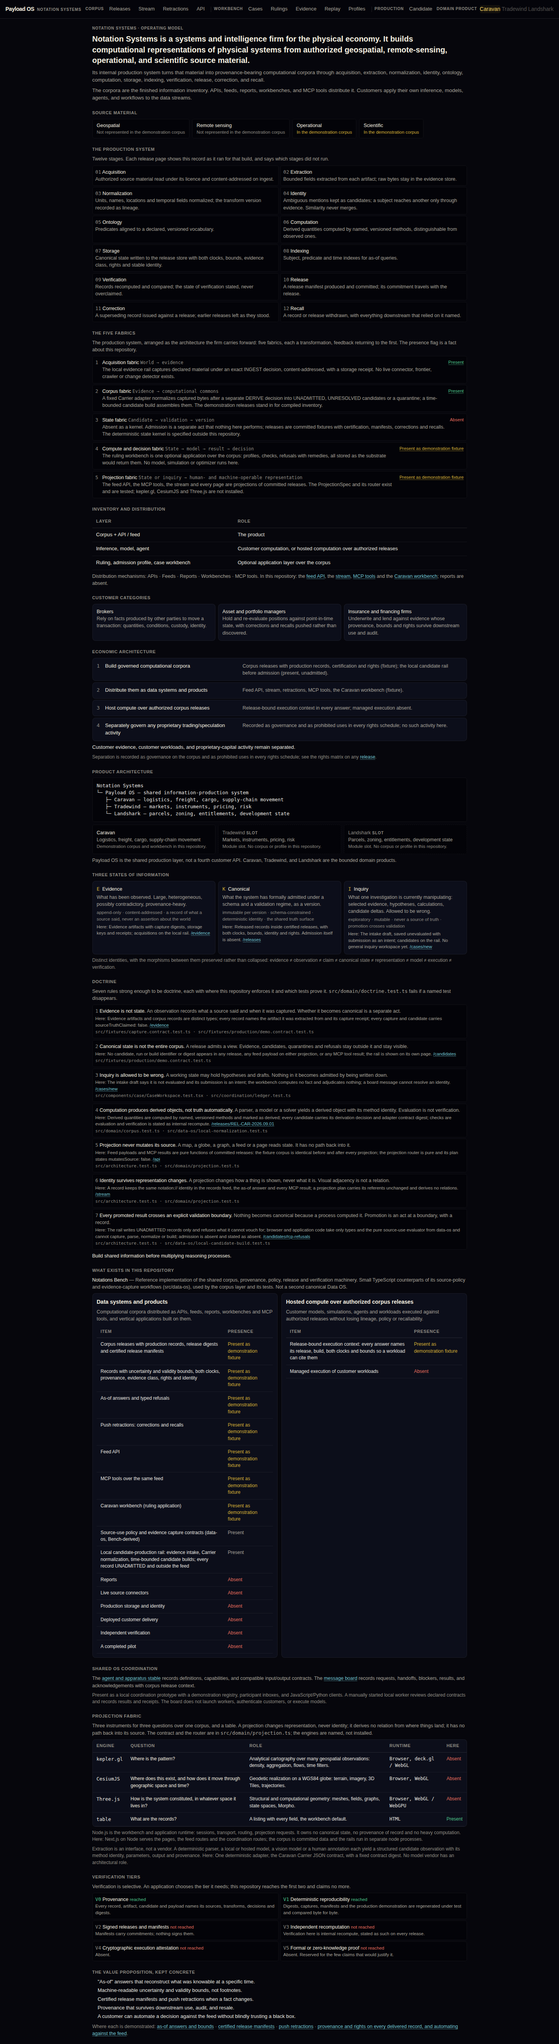
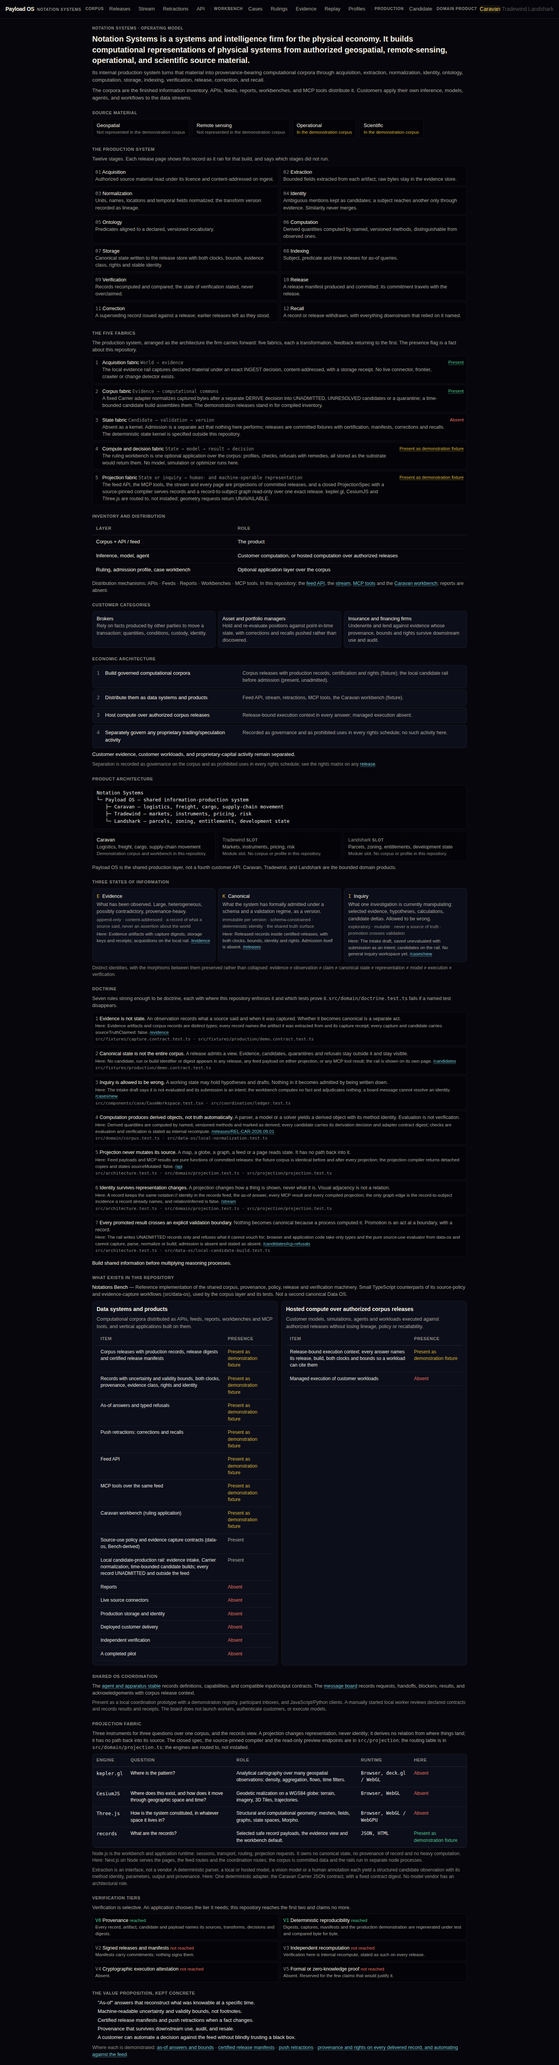
One projection router: the routing table as data over Codex's implemented contract
Codex's projection fabric (payload.projection-spec.v1, a source-pinned
compiler, read-only preview endpoints) is the implemented contract, so the
parallel spec and router from the previous cycle are retired.
src/domain/projection.ts now records the instruments' questions and roles
and the routing table that docs/PROJECTION_FABRIC.md states; its test
checks the table against routeProjection for every combination of mode,
coordinate semantics and representation, and checks that the compiler
returns what the table says, keeps identity and states its non-claims.

docs/ARCHITECTURE.md is reduced to the doctrine binding (where each rule is
enforced and which tests prove it, the tiers reached, the identity chain)
and defers to docs/SYNTHESIZED_ARCHITECTURE.md for the prose. Doctrine,
the product page and the docs name the records projection as the one that
exists, over fixtures.

Claude-Session: https://claude.ai/code/session_01YavvFTG3jpkFTZgGR3Zgq9

diff --git a/src/domain/projection.ts b/src/domain/projection.ts
@@ -1,87 +1,56 @@
 /**
- * The projection fabric as a contract. A projection turns a selection of
- * corpus, canonical or inquiry state into something a person or program can
- * look at; it never changes what it looks at, never invents a relation from
- * where things land on a screen, and never changes what a thing is.
- *
- * Three engines are named for three different jobs (kepler.gl for patterns
- * across many geospatial observations, CesiumJS for geodetic realization,
- * Three.js for structural or computational geometry) and a fourth, the
- * table, for listings. None of the three engines is installed here; the
- * router decides deterministically which one a spec would go to, so the
- * decision table exists and is tested before any engine does.
+ * The projection fabric's engines and routing table as data, over the
+ * implemented contract in src/projection (payload.projection-spec.v1: a
+ * closed spec, a source-pinned compiler, read-only endpoints). There is one
+ * router, src/projection/spec.ts; this module names the instruments'
+ * questions and roles and records the routing table that
+ * docs/PROJECTION_FABRIC.md states, and projection.test.ts asserts the table
+ * agrees with the router for every combination. Nothing here renders.
  */
-import type { CanonicalURI } from './types';
+import { routeProjection, type ProjectionView } from '@/projection/spec';
 
-export const COORDINATE_SEMANTICS = ['GEODETIC', 'INTRINSIC_PHYSICAL', 'FEATURE_SPACE', 'GRAPH_LAYOUT', 'MODEL_SPACE', 'NONE'] as const;
-export type CoordinateSemantics = (typeof COORDINATE_SEMANTICS)[number];
+export type { ProjectionSpec, ProjectionView } from '@/projection/spec';
+export { routeProjection };
 
-export const REPRESENTATIONS = ['POINT', 'LINE', 'POLYGON', 'MESH', 'VOLUME', 'TRAJECTORY', 'GRAPH', 'FIELD', 'TABLE'] as const;
-export type Representation = (typeof REPRESENTATIONS)[number];
+export const PROJECTION_MODES = ['EVIDENCE', 'MAP', 'GLOBE', 'STRUCTURE'] as const satisfies readonly ProjectionView['mode'][];
+export const COORDINATE_SEMANTICS = ['NONE', 'GEODETIC', 'GRAPH_LAYOUT', 'INTRINSIC_PHYSICAL', 'FEATURE_SPACE', 'ARBITRARY_MODEL_SPACE'] as const satisfies readonly ProjectionView['coordinateSemantics'][];
+export const REPRESENTATIONS = ['RECORDS', 'POINT', 'DENSITY', 'GLOBAL_3D', 'GRAPH', 'MESH', 'FIELD'] as const satisfies readonly ProjectionView['representation'][];
 
-/** What the viewer is asking of the projection; it selects the instrument together with the coordinate semantics. */
-export const PROJECTION_INTENTS = ['PATTERN', 'REALIZATION', 'STRUCTURE', 'LISTING'] as const;
-export type ProjectionIntent = (typeof PROJECTION_INTENTS)[number];
-
-export const PROJECTION_ENGINES = ['kepler.gl', 'CesiumJS', 'Three.js', 'table'] as const;
+export const PROJECTION_ENGINES = ['kepler.gl', 'CesiumJS', 'Three.js', 'records'] as const;
 export type ProjectionEngine = (typeof PROJECTION_ENGINES)[number];
-
-export type ProjectionSource =
-  | { kind: 'CORPUS_RELEASE'; releaseId: string }
-  | { kind: 'CANONICAL_VERSION'; versionId: string }
-  | { kind: 'INQUIRY_STATE'; inquiryId: string };
-
-export interface ProjectionSpec {
-  source: ProjectionSource;
-  selection: {
-    entities: readonly CanonicalURI[];
-    relations?: readonly string[];
-    temporalWindow?: { from: string; to: string };
-  };
-  coordinateSemantics: CoordinateSemantics;
-  representation: Representation;
-  intent: ProjectionIntent;
-  /** Enough to reproduce the projection: what was projected, by which compiler, through which transform. */
-  provenance: { sourceVersion: string; compilerVersion: string; transformId: string };
-}
-
-export interface ProjectionPlan {
-  engine: ProjectionEngine;
-  reasons: string[];
-  /** The referents pass through unchanged. A projection changes representation, not identity. */
-  referents: readonly CanonicalURI[];
-  /** Proximity, layout and similarity on the instrument are never relations. */
-  derivesRelations: false;
-  /** The plan reads its source; it has no path back into it. */
-  mutatesSource: false;
-  provenance: ProjectionSpec['provenance'];
-}
 
 export const ENGINE_ROLE: Record<ProjectionEngine, { question: string; role: string; runtime: string }> = {
   'kepler.gl': { question: 'Where is the pattern?', role: 'Analytical cartography over many geospatial observations: density, aggregation, flows, time filters.', runtime: 'Browser, deck.gl / WebGL' },
   CesiumJS: { question: 'Where does this exist, and how does it move through geographic space and time?', role: 'Geodetic realization on a WGS84 globe: terrain, imagery, 3D Tiles, trajectories.', runtime: 'Browser, WebGL' },
   'Three.js': { question: 'How is the system constituted, in whatever space it lives in?', role: 'Structural and computational geometry: meshes, fields, graphs, state spaces, Morpho.', runtime: 'Browser, WebGL / WebGPU' },
-  table: { question: 'What are the records?', role: 'A listing with every field, the workbench default.', runtime: 'HTML' },
+  records: { question: 'What are the records?', role: 'Selected safe record payloads, the evidence view and the workbench default.', runtime: 'JSON, HTML' },
 };
 
-/** The decision table. Pure: the same spec always routes the same way. */
-export function routeProjection(spec: ProjectionSpec): ProjectionPlan {
-  const reasons: string[] = [];
-  let engine: ProjectionEngine;
-  const geodetic = spec.coordinateSemantics === 'GEODETIC';
-  const flat = spec.representation === 'POINT' || spec.representation === 'LINE' || spec.representation === 'POLYGON';
-  if (spec.representation === 'TABLE' || spec.intent === 'LISTING' || spec.coordinateSemantics === 'NONE') {
-    engine = 'table';
-    reasons.push(spec.representation === 'TABLE' ? 'representation is TABLE' : spec.intent === 'LISTING' ? 'intent is LISTING' : 'no coordinate semantics');
-  } else if (geodetic && spec.intent === 'PATTERN' && flat) {
-    engine = 'kepler.gl';
-    reasons.push('GEODETIC coordinates', `intent PATTERN over ${spec.representation}`);
-  } else if (geodetic) {
-    engine = 'CesiumJS';
-    reasons.push('GEODETIC coordinates', spec.intent === 'PATTERN' ? `${spec.representation} needs the globe, not the analytic map` : `intent ${spec.intent} on the globe`);
-  } else {
-    engine = 'Three.js';
-    reasons.push(`${spec.coordinateSemantics} coordinates are not geographic`, `intent ${spec.intent}`);
-  }
-  return { engine, reasons, referents: spec.selection.entities, derivesRelations: false, mutatesSource: false, provenance: spec.provenance };
+export interface ProjectionRoute extends ProjectionView {
+  engine: ProjectionEngine;
+  /** What the fixture compiler returns today for this route. */
+  currentResult: 'READY' | 'UNAVAILABLE';
+  note: string;
+}
+
+/** The routing table of docs/PROJECTION_FABRIC.md. Every other combination is rejected by the router. */
+export const PROJECTION_ROUTING: readonly ProjectionRoute[] = [
+  { mode: 'EVIDENCE', coordinateSemantics: 'NONE', representation: 'RECORDS', engine: 'records', currentResult: 'READY', note: 'Selected safe record payloads with status at the knowledge instant.' },
+  { mode: 'STRUCTURE', coordinateSemantics: 'GRAPH_LAYOUT', representation: 'GRAPH', engine: 'Three.js', currentResult: 'READY', note: 'Records plus a record-to-subject incidence graph; no layout, no inferred edge.' },
+  { mode: 'MAP', coordinateSemantics: 'GEODETIC', representation: 'POINT', engine: 'kepler.gl', currentResult: 'UNAVAILABLE', note: 'No fixture geometry; nothing is invented.' },
+  { mode: 'MAP', coordinateSemantics: 'GEODETIC', representation: 'DENSITY', engine: 'kepler.gl', currentResult: 'UNAVAILABLE', note: 'No fixture geometry; nothing is invented.' },
+  { mode: 'GLOBE', coordinateSemantics: 'GEODETIC', representation: 'GLOBAL_3D', engine: 'CesiumJS', currentResult: 'UNAVAILABLE', note: 'No fixture geometry; nothing is invented.' },
+  { mode: 'STRUCTURE', coordinateSemantics: 'INTRINSIC_PHYSICAL', representation: 'MESH', engine: 'Three.js', currentResult: 'UNAVAILABLE', note: 'No fixture geometry.' },
+  { mode: 'STRUCTURE', coordinateSemantics: 'INTRINSIC_PHYSICAL', representation: 'FIELD', engine: 'Three.js', currentResult: 'UNAVAILABLE', note: 'No fixture geometry.' },
+  { mode: 'STRUCTURE', coordinateSemantics: 'FEATURE_SPACE', representation: 'MESH', engine: 'Three.js', currentResult: 'UNAVAILABLE', note: 'No fixture geometry.' },
+  { mode: 'STRUCTURE', coordinateSemantics: 'FEATURE_SPACE', representation: 'FIELD', engine: 'Three.js', currentResult: 'UNAVAILABLE', note: 'No fixture geometry.' },
+  { mode: 'STRUCTURE', coordinateSemantics: 'ARBITRARY_MODEL_SPACE', representation: 'MESH', engine: 'Three.js', currentResult: 'UNAVAILABLE', note: 'No fixture geometry.' },
+  { mode: 'STRUCTURE', coordinateSemantics: 'ARBITRARY_MODEL_SPACE', representation: 'FIELD', engine: 'Three.js', currentResult: 'UNAVAILABLE', note: 'No fixture geometry.' },
+];
+
+/** What every compiled projection states it did not do. */
+export const PROJECTION_NONCLAIMS = ['sourceMutated', 'canonicalAdmission', 'relationInferred', 'sourceTruthClaimed', 'independentlyVerified', 'rendererExecuted'] as const;
+
+export function routeFor(view: ProjectionView): ProjectionRoute | undefined {
+  return PROJECTION_ROUTING.find((r) => r.mode === view.mode && r.coordinateSemantics === view.coordinateSemantics && r.representation === view.representation);
 }

diff --git a/src/domain/doctrine.ts b/src/domain/doctrine.ts
@@ -24,7 +24,7 @@ export const FABRICS: readonly Fabric[] = [
   { id: 'corpus', order: 2, title: 'Corpus fabric', transforms: 'Evidence → computational commons', inThisRepository: 'A fixed Carrier adapter normalizes captured bytes after a separate DERIVE decision into UNADMITTED, UNRESOLVED candidates or a quarantine; a time-bounded candidate build assembles them. The demonstration releases stand in for compiled inventory.', presence: 'PRESENT', where: '/candidates' },
   { id: 'state', order: 3, title: 'State fabric', transforms: 'Candidate → validation → version', inThisRepository: 'Absent as a kernel. Admission is a separate act that nothing here performs; releases are committed fixtures with certification, manifests, corrections and recalls. The deterministic state kernel is specified outside this repository.', presence: 'ABSENT' },
   { id: 'compute', order: 4, title: 'Compute and decision fabric', transforms: 'State → model → result → decision', inThisRepository: 'The ruling workbench is one optional application over the corpus: profiles, checks, refusals with remedies, all stored as the substrate would return them. No model, simulation or optimizer runs here.', presence: 'FIXTURE', where: '/cases' },
-  { id: 'projection', order: 5, title: 'Projection fabric', transforms: 'State or inquiry → human- and machine-operable representation', inThisRepository: 'The feed API, the MCP tools, the stream and every page are projections of committed releases. The ProjectionSpec and its router exist and are tested; kepler.gl, CesiumJS and Three.js are not installed.', presence: 'FIXTURE', where: '/api' },
+  { id: 'projection', order: 5, title: 'Projection fabric', transforms: 'State or inquiry → human- and machine-operable representation', inThisRepository: 'The feed API, the MCP tools, the stream and every page are projections of committed releases, and a closed ProjectionSpec with a source-pinned compiler serves records and a record-to-subject graph read-only over one exact release. kepler.gl, CesiumJS and Three.js are routed to, not installed; geometry requests return UNAVAILABLE.', presence: 'FIXTURE', where: '/api' },
 ];
 
 export interface InformationState {
@@ -58,8 +58,8 @@ export const DOCTRINE: readonly DoctrineRule[] = [
   { n: 2, rule: 'Canonical state is not the entire corpus.', meaning: 'A release admits a view. Evidence, candidates, quarantines and refusals stay outside it and stay visible.', enforcedHere: 'No candidate, run or build identifier or digest appears in any release, any feed payload on either projection, or any MCP tool result; the rail is shown on its own page.', where: '/candidates', tests: ['src/fixtures/production/demo.contract.test.ts'] },
   { n: 3, rule: 'Inquiry is allowed to be wrong.', meaning: 'A working state may hold hypotheses and drafts. Nothing in it becomes admitted by being written down.', enforcedHere: 'The intake draft says it is not evaluated and its submission is an intent; the workbench computes no fact and adjudicates nothing; a board message cannot resolve an identity.', where: '/cases/new', tests: ['src/components/case/CaseWorkspace.test.tsx', 'src/coordination/ledger.test.ts'] },
   { n: 4, rule: 'Computation produces derived objects, not truth automatically.', meaning: 'A parser, a model or a solver yields a derived object with its method identity. Evaluation is not verification.', enforcedHere: 'Derived quantities are computed by named, versioned methods and marked as derived; every candidate carries its derivation decision and adapter contract digest; checks are evaluation and verification is stated as internal recompute.', where: '/releases/REL-CAR-2026.09.01', tests: ['src/domain/corpus.test.ts', 'src/data-os/local-normalization.test.ts'] },
-  { n: 5, rule: 'Projection never mutates its source.', meaning: 'A map, a globe, a graph, a feed or a page reads state. It has no path back into it.', enforcedHere: 'Feed payloads and MCP results are pure functions of committed releases: the fixture corpus is identical before and after every projection; the projection router is pure and its plan states mutatesSource: false.', where: '/api', tests: ['src/architecture.test.ts', 'src/domain/projection.test.ts'] },
-  { n: 6, rule: 'Identity survives representation changes.', meaning: 'A projection changes how a thing is shown, never what it is. Visual adjacency is not a relation.', enforcedHere: 'A record keeps the same notation:// identity in the records feed, the as-of answer and every MCP result; a projection plan carries its referents unchanged and derives no relations.', where: '/stream', tests: ['src/architecture.test.ts', 'src/domain/projection.test.ts'] },
+  { n: 5, rule: 'Projection never mutates its source.', meaning: 'A map, a globe, a graph, a feed or a page reads state. It has no path back into it.', enforcedHere: 'Feed payloads and MCP results are pure functions of committed releases: the fixture corpus is identical before and after every projection; the projection compiler returns detached copies and states sourceMutated: false.', where: '/api', tests: ['src/architecture.test.ts', 'src/domain/projection.test.ts', 'src/projection/projection.test.ts'] },
+  { n: 6, rule: 'Identity survives representation changes.', meaning: 'A projection changes how a thing is shown, never what it is. Visual adjacency is not a relation.', enforcedHere: 'A record keeps the same notation:// identity in the records feed, the as-of answer, every MCP result and every compiled projection; the only graph edge is the record-to-subject incidence a record already names, and relationInferred is false.', where: '/stream', tests: ['src/architecture.test.ts', 'src/domain/projection.test.ts', 'src/projection/projection.test.ts'] },
   { n: 7, rule: 'Every promoted result crosses an explicit validation boundary.', meaning: 'Nothing becomes canonical because a process computed it. Promotion is an act at a boundary, with a record.', enforcedHere: 'The rail writes UNADMITTED records only and refuses what it cannot vouch for; browser and application code take only types and the pure source-use evaluator from data-os and cannot capture, parse, normalize or build; admission is absent and stated as absent.', where: '/candidates#cp-refusals', tests: ['src/architecture.test.ts', 'src/data-os/local-candidate-build.test.ts'] },
 ];
 
@@ -85,7 +85,7 @@ export const EXTRACTION_INTERFACE = {
   inThisRepository: 'One deterministic adapter, the Caravan Carrier JSON contract, with a fixed contract digest. No model vendor has an architectural role.',
 } as const;
 
-export const PROJECTION_ENGINE_PRESENCE: Record<ProjectionEngine, Presence> = { 'kepler.gl': 'ABSENT', CesiumJS: 'ABSENT', 'Three.js': 'ABSENT', table: 'PRESENT' };
+export const PROJECTION_ENGINE_PRESENCE: Record<ProjectionEngine, Presence> = { 'kepler.gl': 'ABSENT', CesiumJS: 'ABSENT', 'Three.js': 'ABSENT', records: 'FIXTURE' };
 
 export const PROJECTION_ENGINES_IN_REPOSITORY = PROJECTION_ENGINES.map((engine) => ({ engine, ...ENGINE_ROLE[engine], presence: PROJECTION_ENGINE_PRESENCE[engine] }));
 

diff --git a/src/domain/projection.test.ts b/src/domain/projection.test.ts
@@ -1,48 +1,36 @@
 import { describe, expect, it } from 'vitest';
-import { COORDINATE_SEMANTICS, PROJECTION_INTENTS, REPRESENTATIONS, routeProjection, type ProjectionSpec } from './projection';
+import { COORDINATE_SEMANTICS, ENGINE_ROLE, PROJECTION_ENGINES, PROJECTION_MODES, PROJECTION_NONCLAIMS, PROJECTION_ROUTING, REPRESENTATIONS, routeFor, routeProjection } from './projection';
+import { ProjectionError } from '@/projection/spec';
+import { compileProjection } from '@/projection/compile';
+import { describeProjectionSource } from '@/projection/source';
+import { recordsPayload } from '@/adapter/feed';
 
-const base: ProjectionSpec = {
-  source: { kind: 'CORPUS_RELEASE', releaseId: 'REL-CAR-2026.09.01' },
-  selection: { entities: ['notation://lot/caravan/LOT-5B-221', 'notation://shipment/caravan/BAL-77812'] },
-  coordinateSemantics: 'GEODETIC',
-  representation: 'POINT',
-  intent: 'PATTERN',
-  provenance: { sourceVersion: 'REL-CAR-2026.09.01', compilerVersion: '0.1.0', transformId: 'projection.demo' },
-};
-
-function deepFreeze<T>(v: T): T { if (v && typeof v === 'object') for (const c of Object.values(v as object)) deepFreeze(c); return Object.freeze(v); }
-
-describe('projection router', () => {
-  it('routes by coordinate semantics and intent: patterns to kepler.gl, geodetic realization to CesiumJS, everything non-geographic to Three.js, listings to the table', () => {
-    expect(routeProjection(base).engine).toBe('kepler.gl');
-    expect(routeProjection({ ...base, representation: 'POLYGON' }).engine).toBe('kepler.gl');
-    expect(routeProjection({ ...base, intent: 'REALIZATION' }).engine).toBe('CesiumJS');
-    expect(routeProjection({ ...base, representation: 'MESH' }).engine).toBe('CesiumJS');
-    expect(routeProjection({ ...base, representation: 'TRAJECTORY', intent: 'REALIZATION' }).engine).toBe('CesiumJS');
-    expect(routeProjection({ ...base, coordinateSemantics: 'INTRINSIC_PHYSICAL', representation: 'MESH', intent: 'STRUCTURE' }).engine).toBe('Three.js');
-    expect(routeProjection({ ...base, coordinateSemantics: 'GRAPH_LAYOUT', representation: 'GRAPH', intent: 'STRUCTURE' }).engine).toBe('Three.js');
-    expect(routeProjection({ ...base, coordinateSemantics: 'MODEL_SPACE', representation: 'FIELD', intent: 'PATTERN' }).engine).toBe('Three.js');
-    expect(routeProjection({ ...base, representation: 'TABLE' }).engine).toBe('table');
-    expect(routeProjection({ ...base, intent: 'LISTING' }).engine).toBe('table');
-    expect(routeProjection({ ...base, coordinateSemantics: 'NONE' }).engine).toBe('table');
-  });
-
-  it('is total and pure: every combination routes somewhere, the same spec routes the same way, and the spec is not touched', () => {
-    for (const coordinateSemantics of COORDINATE_SEMANTICS) for (const representation of REPRESENTATIONS) for (const intent of PROJECTION_INTENTS) {
-      const spec = deepFreeze({ ...base, coordinateSemantics, representation, intent });
-      const a = routeProjection(spec);
-      const b = routeProjection(spec);
-      expect(a).toEqual(b);
-      expect(['kepler.gl', 'CesiumJS', 'Three.js', 'table']).toContain(a.engine);
-      expect(a.reasons.length).toBeGreaterThan(0);
+describe('projection routing table', () => {
+  it('agrees with the one router for every combination: listed routes go to their engine, every other combination is rejected', () => {
+    let listed = 0;
+    for (const mode of PROJECTION_MODES) for (const coordinateSemantics of COORDINATE_SEMANTICS) for (const representation of REPRESENTATIONS) {
+      const view = { mode, coordinateSemantics, representation };
+      const route = routeFor(view);
+      if (route) { listed++; expect(routeProjection(view), JSON.stringify(view)).toBe(route.engine); }
+      else expect(() => routeProjection(view), JSON.stringify(view)).toThrow(ProjectionError);
     }
+    expect(listed).toBe(PROJECTION_ROUTING.length);
+    expect(new Set(PROJECTION_ROUTING.map((r) => r.engine))).toEqual(new Set(PROJECTION_ENGINES));
+    for (const engine of PROJECTION_ENGINES) expect(ENGINE_ROLE[engine].question.length).toBeGreaterThan(10);
   });
 
-  it('changes representation, never identity, and derives no relation from where things land', () => {
-    const plan = routeProjection(deepFreeze({ ...base }));
-    expect(plan.referents).toEqual(base.selection.entities);
-    expect(plan.derivesRelations).toBe(false);
-    expect(plan.mutatesSource).toBe(false);
-    expect(plan.provenance).toEqual(base.provenance);
+  it('the fixture compiler returns what the table says it returns, keeps identity, and states its non-claims', async () => {
+    const descriptor = describeProjectionSource('REL-CAR-2026.09.01');
+    const feed = (await recordsPayload('REL-CAR-2026.09.01', 'COUNTERPARTY_SHARED'))!;
+    const record = feed.records[0];
+    const spec = (view: object) => ({ schema: 'payload.projection-spec.v1', source: descriptor.source, selection: { recordIds: [record.recordId], knownAt: descriptor.knownAt, validAt: record.validity.validFrom }, view, viewer: 'COUNTERPARTY_SHARED' });
+    for (const route of PROJECTION_ROUTING) {
+      const result = compileProjection(spec({ mode: route.mode, coordinateSemantics: route.coordinateSemantics, representation: route.representation }));
+      expect(result.engine, route.note).toBe(route.engine);
+      expect(result.status).toBe(route.currentResult);
+      expect(result.records[0].canonicalId).toBe(record.canonicalId);
+      expect(Object.keys(result.nonclaims).sort()).toEqual([...PROJECTION_NONCLAIMS].sort());
+      for (const key of PROJECTION_NONCLAIMS) expect(result.nonclaims[key]).toBe(false);
+    }
   });
 });

diff --git a/src/domain/doctrine.test.ts b/src/domain/doctrine.test.ts
@@ -30,8 +30,8 @@ describe('doctrine as data', () => {
     expect(VERIFICATION_TIERS.filter((t) => t.reachedHere).map((t) => t.tier)).toEqual(['V0', 'V1']);
   });
 
-  it('installs no projection engine but the table', () => {
-    expect(PROJECTION_ENGINES_IN_REPOSITORY.map((e) => [e.engine, e.presence])).toEqual([['kepler.gl', 'ABSENT'], ['CesiumJS', 'ABSENT'], ['Three.js', 'ABSENT'], ['table', 'PRESENT']]);
+  it('installs no projection engine; only the records projection exists, over fixtures', () => {
+    expect(PROJECTION_ENGINES_IN_REPOSITORY.map((e) => [e.engine, e.presence])).toEqual([['kepler.gl', 'ABSENT'], ['CesiumJS', 'ABSENT'], ['Three.js', 'ABSENT'], ['records', 'FIXTURE']]);
     const pkg = JSON.parse(readFileSync(resolve(process.cwd(), 'package.json'), 'utf8')) as { dependencies: Record<string, string> };
     for (const dep of Object.keys(pkg.dependencies)) expect(dep, `${dep} is a projection engine the doctrine says is absent`).not.toMatch(/kepler|cesium|^three$/);
   });

diff --git a/tests/e2e/smoke.spec.ts b/tests/e2e/smoke.spec.ts
@@ -85,7 +85,7 @@ test('the product page states the firm, the twelve stages, the three customer ca
   await expect(page.locator('[data-doctrine-rule]')).toHaveCount(7);
   await expect(page.getByTestId('operational-rule')).toContainText('shared information');
   await expect(page.locator('[data-engine="kepler.gl"][data-presence="ABSENT"]')).toHaveCount(1);
-  await expect(page.locator('[data-engine="table"][data-presence="PRESENT"]')).toHaveCount(1);
+  await expect(page.locator('[data-engine="records"][data-presence="FIXTURE"]')).toHaveCount(1);
   await expect(page.locator('[data-tier][data-reached="true"]')).toHaveCount(2);
 });
 

diff --git a/docs/ARCHITECTURE.md b/docs/ARCHITECTURE.md
@@ -1,86 +1,42 @@
-# Architecture carried forward
+# Doctrine binding
 
-The founder's synthesis (2026-09-05) of every earlier iteration, as it binds this repository. `src/domain/doctrine.ts` holds the same content as data; `/product` renders it; `src/domain/doctrine.test.ts` and `src/architecture.test.ts` keep it honest. The mandate in [Economic architecture](ECONOMIC_ARCHITECTURE.md) and [Company mandate](COMPANY_MANDATE.md) is unchanged by this document; this is how the machinery is arranged underneath it.
+[Synthesized architecture](SYNTHESIZED_ARCHITECTURE.md) is the prose of record for the five fabrics, the seven doctrine invariants, the projection instruments, the runtime allocation and the historical concept mapping. This document records only what that architecture binds in this repository: where each rule is enforced, which tests prove it, the three states of information as they exist here, the verification tier reached, and the identity chain. `src/domain/doctrine.ts` holds the same content as data; `/product` renders it; `src/domain/doctrine.test.ts` fails if a named test file disappears.
 
-## The system
+## Three states of information, here
 
-```
-Acquire → preserve evidence → compile corpus → establish state → project → compute → investigate → act → observe
-```
-
-with provenance, lineage, quality, policy and replayability around the whole of it, and observation returning to acquisition, never directly into state.
-
-## Five fabrics
-
-| # | Fabric | Transforms | In this repository |
+| State | Meaning | Invariants | In this repository |
 |---|---|---|---|
-| 1 | Acquisition | world → evidence | The local evidence rail: declared policy, exact INGEST decision, content-addressed bytes, receipt. No connector, frontier, crawler or change detector. |
-| 2 | Corpus | evidence → computational commons | Carrier normalization after a separate DERIVE decision; UNADMITTED, UNRESOLVED candidates or a quarantine; time-bounded candidate builds. Demonstration releases stand in for compiled inventory. |
-| 3 | State | candidate → validation → version | Absent as a kernel. Admission is a separate act nothing here performs. The deterministic state kernel is specified outside this repository. |
-| 4 | Compute and decision | state → model → result → decision | The ruling workbench, one optional application over the corpus. No model, simulation or optimizer runs here. |
-| 5 | Projection | state or inquiry → operable representation | The feed API, MCP tools, stream and pages. `ProjectionSpec` and its router exist and are tested; kepler.gl, CesiumJS and Three.js are named, not installed. |
-
-## Three states of information
-
-| State | Meaning | Invariants | Here |
-|---|---|---|---|
-| Evidence, E | what has been observed | append-only, content-addressed, a record of what a source said | evidence artifacts with capture digests and receipts; acquisitions on the rail |
+| Evidence, E | what has been observed | append-only, content-addressed, a record of what a source said | evidence artifacts with capture digests and receipts; acquisitions on the local rail |
 | Canonical, K | what has been admitted under a schema and a validation regime, as a version | immutable per version, schema-constrained, deterministic identity | released records in certified releases; admission absent |
-| Inquiry, I | what one investigation is manipulating; allowed to be wrong | exploratory, mutable, never a source of truth, promotion crosses validation | the intake draft; candidates on the rail; no general inquiry workspace yet |
+| Inquiry, I | what one investigation is manipulating; allowed to be wrong | exploratory, mutable, never a source of truth, promotion crosses validation | the intake draft; candidates on the rail; no general inquiry workspace |
 
-Corpus ≠ canonical state. Corpus ≠ graph. Evidence ≠ assertion. The identity chain is kept distinct, with the morphisms between its members preserved: evidence ≠ observation ≠ claim ≠ canonical state ≠ representation ≠ model ≠ execution ≠ verification.
+The identity chain is kept distinct, with the morphisms between its members preserved: evidence ≠ observation ≠ claim ≠ canonical state ≠ representation ≠ model ≠ execution ≠ verification.
 
-## Doctrine
+## The seven rules, bound
 
-1. Evidence is not state.
-2. Canonical state is not the entire corpus.
-3. Inquiry is allowed to be wrong.
-4. Computation produces derived objects, not truth automatically.
-5. Projection never mutates its source.
-6. Identity survives representation changes.
-7. Every promoted result crosses an explicit validation boundary.
+| # | Rule | Enforced here | Proved by |
+|---|---|---|---|
+| 1 | Evidence is not state. | Evidence artifacts and corpus records are distinct types; every record names its artifact and receipt; every capture and candidate carries `sourceTruthClaimed: false`. | `src/fixtures/capture.contract.test.ts`, `src/fixtures/production/demo.contract.test.ts` |
+| 2 | Canonical state is not the entire corpus. | No candidate, run or build identifier or digest appears in any release, feed payload or MCP result; the rail has its own page. | `src/fixtures/production/demo.contract.test.ts` |
+| 3 | Inquiry is allowed to be wrong. | The intake draft is saved unevaluated with submission as an intent; the workbench adjudicates nothing; a board message resolves no identity. | `src/components/case/CaseWorkspace.test.tsx`, `src/coordination/ledger.test.ts` |
+| 4 | Computation produces derived objects, not truth automatically. | Derived quantities carry named, versioned methods; every candidate carries its derivation decision and adapter digest; checks are evaluation, verification is stated as internal recompute. | `src/domain/corpus.test.ts`, `src/data-os/local-normalization.test.ts` |
+| 5 | Projection never mutates its source. | The fixture corpus is byte-identical before and after every feed payload and MCP tool; the projection compiler returns detached copies and states `sourceMutated: false`. | `src/architecture.test.ts`, `src/domain/projection.test.ts`, `src/projection/projection.test.ts` |
+| 6 | Identity survives representation changes. | One `notation://` identity per record across the records feed, the as-of answer, every MCP result and every compiled projection; the only graph edge is the record-to-subject incidence a record already names. | `src/architecture.test.ts`, `src/domain/projection.test.ts`, `src/projection/projection.test.ts` |
+| 7 | Every promoted result crosses an explicit validation boundary. | The rail writes UNADMITTED records only and refuses what it cannot vouch for; browser and page layers import only types and the pure source-use evaluator from the rails; the rails import nothing from above them; admission is absent and stated so. | `src/architecture.test.ts`, `src/data-os/local-candidate-build.test.ts` |
 
-And one operational rule: build shared information before multiplying reasoning processes.
+Operational rule: build shared information before multiplying reasoning processes.
 
-Each rule's enforcement here and the tests that prove it are listed in `src/domain/doctrine.ts` and on `/product`. Rules 5, 6 and 7 gained direct tests in this cycle (`src/architecture.test.ts`): the fixture corpus is byte-identical before and after every feed payload and every MCP tool; a record's `notation://` identity is the same string in the records feed, the as-of answer and the tool results; browser and page layers import only types and the pure source-use evaluator from `src/data-os`, and the rails import nothing from above them.
+## Projection, here
 
-## Projection fabric
-
-Three instruments answer three different questions over the same corpus; none of them is a data store and none of them derives a relation from where things land.
-
-| Engine | Question | Role |
-|---|---|---|
-| kepler.gl | Where is the pattern? | analytical cartography over many geospatial observations |
-| CesiumJS | Where does this exist, and how does it move through geographic space and time? | geodetic realization on a WGS84 globe |
-| Three.js | How is the system constituted, in whatever space it lives in? | structural and computational geometry, Morpho |
-| table | What are the records? | the workbench listing |
-
-`ProjectionSpec` names the source (a corpus release, a canonical version or an inquiry state), the selection, the coordinate semantics (GEODETIC, INTRINSIC_PHYSICAL, FEATURE_SPACE, GRAPH_LAYOUT, MODEL_SPACE, NONE), the representation, the intent (PATTERN, REALIZATION, STRUCTURE, LISTING) and the provenance needed to reproduce it. `routeProjection` is pure and total: geodetic patterns over points, lines or polygons go to kepler.gl; anything else geodetic goes to CesiumJS; anything not geographic goes to Three.js; listings and tables go to the table. The plan carries the referents unchanged, `derivesRelations: false` and `mutatesSource: false`.
-
-Node.js is the workbench and application runtime, owning sessions, transport and projection requests, never canonical state. Extraction is an interface, not a vendor: no model vendor has an architectural role here.
+There is one router, `routeProjection` in `src/projection/spec.ts`, and one closed spec, `payload.projection-spec.v1`, compiled read-only over one exact fixture release by `src/projection/compile.ts` and served by `GET /api/projections/sources/:releaseId` and `POST /api/projections/preview` ([Projection fabric](PROJECTION_FABRIC.md)). `src/domain/projection.ts` records the instruments' questions and roles and the routing table as data; `src/domain/projection.test.ts` asserts the table agrees with the router for every combination of mode, coordinate semantics and representation, that the compiler returns what the table says, keeps identity and states its non-claims. kepler.gl, CesiumJS and Three.js are routed to, not installed; geometry requests return `UNAVAILABLE` and nothing is invented.
 
 ## Verification tiers
 
 | Tier | Name | Here |
 |---|---|---|
 | V0 | provenance | reached |
-| V1 | deterministic reproducibility | reached: digests, captures, manifests and the production demonstration regenerate under test |
+| V1 | deterministic reproducibility | reached: digests, captures, manifests, the production demonstration and projections regenerate under test |
 | V2 | signed releases and manifests | not reached: commitments exist, nothing signs them |
 | V3 | independent recomputation | not reached: verification is internal recompute, stated as such |
 | V4 | cryptographic execution attestation | not reached |
 | V5 | formal or zero-knowledge proof | not reached, and selective by design |
-
-## What the earlier iterations became
-
-| Earlier concept | Where it lives now |
-|---|---|
-| PayloadOS as the company | the shared production layer, Payload OS, beneath the domain products |
-| DAF, EvidencePool | acquisition fabric, evidence substrate; here the local evidence rail |
-| Archive, Odyssey, Oracle, Librarian | corpus vault, query engine, operator interface: functions kept, labels retired |
-| Computational Commons, InquiryState | corpus fabric and the inquiry state; the intake draft is the first instance here |
-| Deterministic State Architecture | the state fabric's kernel, specified outside this repository |
-| Morpho, STE/SCL/SIL, Model-Complexity, FEP/SCG | compute fabric, representation audit, control plane; none present here |
-| Tradewind, LANDSHARK, Caravan | products over the domain corpora |
-| Kepler, Cesium, Three.js, Node.js | the projection fabric and its runtime |
-| Mistral | no architectural role |
-| blockchain, RWA | not core; an external commitment adapter if a customer case ever justifies it |

diff --git a/docs/ECONOMIC_ARCHITECTURE.md b/docs/ECONOMIC_ARCHITECTURE.md
@@ -101,7 +101,7 @@ The underlying production system is shared. The customer-facing API, feed, repor
 | Normalize acquired evidence into source-scoped, provenance-bearing candidates | `src/data-os/caravan-carrier-adapter.ts`, `local-normalization.ts`; `npm run evidence -- normalize` and `inspect-normalization` | Local implementation: separate INTERNAL DERIVE check; fixed UTF-8 Carrier JSON parser; explicit missingness/time; durable UNRESOLVED, UNADMITTED candidate or quarantine with no candidate; historical reparse and digest recomputation. No source-truth or field-accuracy claim, independent verification, identity merge, corpus build/admission, release or public API exposure |
 | Assemble explicitly selected candidates into a time-bounded build | `src/data-os/local-candidate-build.ts`; `npm run evidence -- build-candidates` and `inspect-candidate-build` | Local implementation: 1–64 selected Carrier normalizations; actual dependency reinspection; definition/source-class and cutoff checks; separate build-time INTERNAL DERIVE; exact membership references and root, create-only manifest and historical recomputation. UNADMITTED, with no canonical state, identity resolution, completeness claim, release or public delivery |
 | Candidate records stay visible and separate from canonical admission, release and the feed | `/candidates` over `src/fixtures/production/demo.json`, produced through the real rails by `pipeline.ts` and reproduced by `demo.contract.test.ts`; `separationTerms` checked against every feed payload and MCP tool result | Demonstration reproduced under the rails; every record UNADMITTED, identity UNRESOLVED; the page reads no local store |
-| The architecture carried forward: five fabrics, three states of information, seven rules of doctrine, verification tiers, the projection triad | `src/domain/doctrine.ts`, `src/domain/projection.ts`, `docs/ARCHITECTURE.md`; `/product`; `src/domain/doctrine.test.ts` keeps every named test present; `src/architecture.test.ts` proves rules 5, 6 and 7 structurally | Stated as data with presence flags; the state kernel and the three projection engines absent, and stated so |
+| The architecture carried forward, bound to this repository: three states of information, the seven rules with their enforcement and tests, verification tiers, the routing table over the one projection router | `src/domain/doctrine.ts`, `src/domain/projection.ts`, `docs/ARCHITECTURE.md` (binding) over `docs/SYNTHESIZED_ARCHITECTURE.md` (prose); `/product`; `src/domain/doctrine.test.ts` keeps every named test present; `src/architecture.test.ts` proves rules 5, 6 and 7 structurally; `src/domain/projection.test.ts` checks the table against `routeProjection` for every combination | Stated as data with presence flags; the state kernel and the three projection engines absent, and stated so |
 | Compare local candidate membership without inventing business meaning | `src/data-os/candidate-build-comparison.ts`; `npm run evidence -- compare-candidate-builds`; [Local candidate comparison](LOCAL_CANDIDATE_COMPARISON.md) | Read-only local implementation: exact full build references and source-byte reinspection; same definition/contract/purpose and ordered input times; source-scoped added/removed/unchanged/reference-changed entries. Deterministic ephemeral report, no new timestamp, field-change inference, correction/retraction decision, current-use grant, canonical mutation or released feed |
 | Project one source without changing its identity or authority | `src/projection/spec.ts`, `source.ts`, `compile.ts`; `GET /api/projections/sources/[releaseId]`, `POST /api/projections/preview` | Read-only fixture implementation: legacy release commitments plus a required full snapshot pin, explicit rights/visibility/time-bound selection, preserved record/subject identities, safe records and RECORD_ABOUT_SUBJECT graph; detached payload and projection digests. No inferred relation, source mutation, canonical admission or independent verification |
 | Distinct spatial and structural instruments over the same corpus | `routeProjection`; `docs/SYNTHESIZED_ARCHITECTURE.md`, `docs/PROJECTION_FABRIC.md` | Configured architectural roles: kepler.gl for analytical geography, CesiumJS for geographic-world realization, Three.js for structural/computational representation. Geometry requests return UNAVAILABLE; renderer dependencies, instances, spatial adapters and new visual workbench modes are not implemented |

diff --git a/docs/UX_ARCHITECTURE.md b/docs/UX_ARCHITECTURE.md
@@ -109,7 +109,7 @@ Every ruling names the corpus release and build it was evaluated against (`Rulin
 - The browser performs presentation validation only: visibility projection, knowledge-time projection, highlight linking from a failed check to its claims, evidence, broken lineage edge and remediation, queue summaries. There is no admission logic, no second gate battery, and no inference of a status from display fields.
 - Every workbench action (request evidence, replace evidence, correct claim, change use, change tolerance, appeal, resubmit, reviewer intervention, submit) produces an `ActionIntent` shown in an "Action intents (not sent)" panel. Nothing is sent; nothing is re-evaluated. There is no bare "Override": reviewer intervention requires an authority, a reason and a basis before it can be recorded, and it is recorded beside the automatic results, not over them.
 - Coordination opens in `FIXTURE` mode with no writes. `npm run dev:coordination` enables the separate `LOCAL_SANDBOX` service on loopback, where registrations, posts and acknowledgements are sent to `/api/coordination` and recorded locally. Every snapshot still carries `fixture_only: true`, and also names its mode, persistence, scope and write capability. Participant selection is simulated identity. Scope checks do not constitute production authentication or tenant isolation.
-- Projection is a contract before it is an engine. `domain/projection.ts` defines `ProjectionSpec` and a pure, total router to kepler.gl, CesiumJS, Three.js or the table by coordinate semantics and intent; a plan carries its referents unchanged and derives no relation. None of the three engines is installed; the feed, the tools, the stream and the pages are the projections that exist, and `src/architecture.test.ts` proves they leave the corpus untouched and identities intact. Full text: [Architecture](ARCHITECTURE.md).
+- Projection is a contract before it is an engine. The one spec and router live in `src/projection` ([Projection fabric](PROJECTION_FABRIC.md)); `domain/projection.ts` records the instruments' questions, roles and the routing table as data, and its test checks the table against the router for every combination and the compiler's non-claims. None of the three engines is installed; the feed, the tools, the stream, the pages and the read-only preview are the projections that exist, and `src/architecture.test.ts` proves they leave the corpus untouched and identities intact. Binding: [Doctrine binding](ARCHITECTURE.md); prose: [Synthesized architecture](SYNTHESIZED_ARCHITECTURE.md).
 - `/candidates` renders the committed demonstration in `src/fixtures/production/demo.json`, which `pipeline.ts` produces through the real local rails (`src/data-os`) from the committed `examples/` at fixed instants and `demo.contract.test.ts` reproduces. Every record there is `UNADMITTED` with `canonicalId: null`; the same test asserts that no candidate, run or build identifier or digest appears in any `/api/v1` payload or MCP tool result. The page reads nothing from `.payload/`.
 - A board post, acknowledgement or matching contract cannot admit evidence, resolve identity, certify a release, launch a worker, run a model or execute a customer workload. Corpus data remains committed fixtures; the local operational event history lives separately in `.payload/coordination/events.json`.
 - Fixture commitments are computed in Node (`scripts/stamp-digests.entry.ts`) and committed. The projection adapter recomputes these existing commitments and hashes its replaceable output in Node; it does not change them. The browser never hashes anything.

diff --git a/README.md b/README.md
@@ -102,7 +102,7 @@ examples/evidence synthetic notice and operator-declared intake manifest
 examples/carrier synthetic Carrier JSON, acquisition declaration and normalization request
 src/mcp         MCP tools over the same feed payloads, and the stdio server
 src/domain/doctrine.ts   the architecture carried forward as data: five fabrics, three states of information, seven rules with where each is enforced and which tests prove it, verification tiers (docs/ARCHITECTURE.md is the prose; /product renders it)
-src/domain/projection.ts the projection contract and its pure router: kepler.gl / CesiumJS / Three.js / table by coordinate semantics and intent; engines named, not installed
+src/domain/projection.ts the projection instruments' questions and roles and the routing table as data, over the one router in src/projection/spec.ts; a test checks the table against the router for every combination
 src/architecture.test.ts structural doctrine: browser and page layers take only types and the pure policy evaluator from the rails; the rails import nothing from above; every projection leaves the corpus untouched and identities intact
 src/fixtures/production  the candidate-production demonstration: pipeline.ts runs examples/ through the real local rails at fixed instants; demo.json is its committed output, drift-tested and separation-tested
 src/fixtures    Caravan corpus releases, records, retractions and rights; profile and cases; manifest builder; digest plan; committed digests
